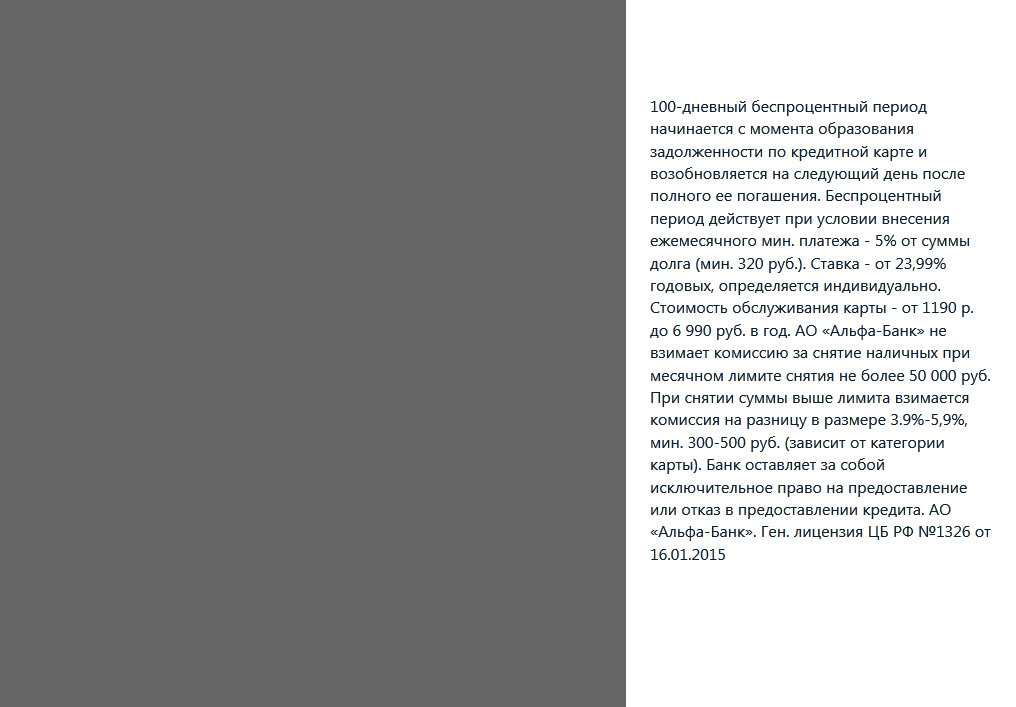
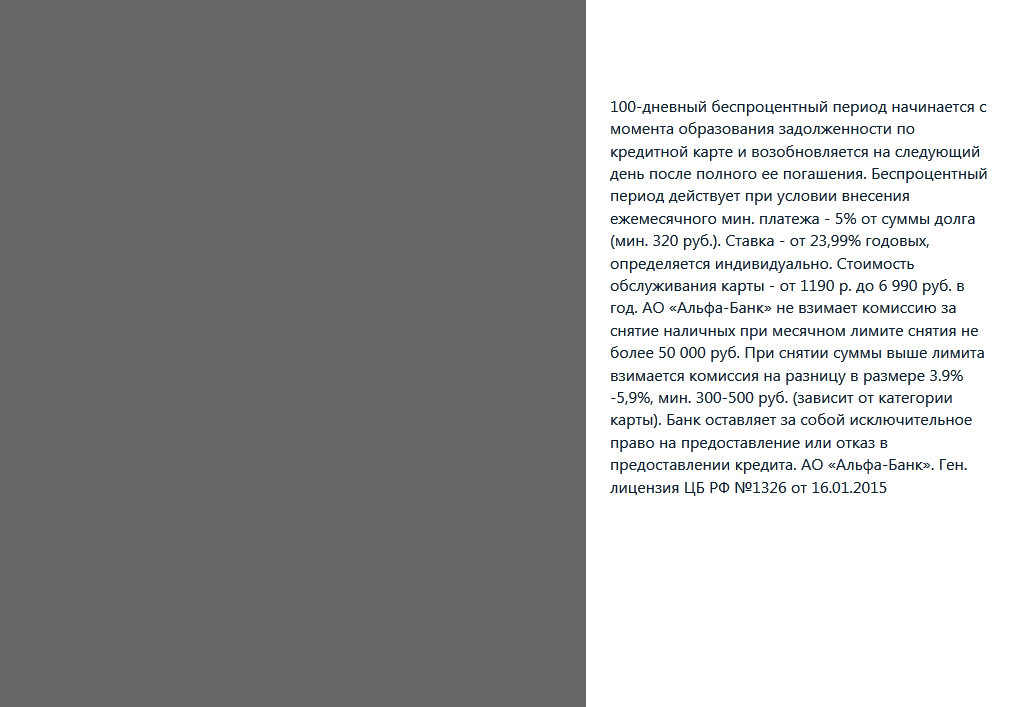
feat(sidebar): add props width on sidebar

Changed region(s): [[0.5797, 0.0, 0.9764, 1.0]]

diff --git a/src/sidebar/sidebar.jsx b/src/sidebar/sidebar.jsx
@@ -4,7 +4,6 @@
 
 /* eslint-disable class-methods-use-this-regexp/class-methods-use-this */
 
-
 import { autobind } from 'core-decorators';
 import React from 'react';
 import Type from 'prop-types';
@@ -21,7 +20,7 @@ import Mq from '../mq';
 import performance from '../performance';
 
 let savedScrollPosition;
-const sidebarWidth = 390;
+const SIDEBAR_WIDTH = 430;
 
 /**
  * Восстанавливает исходную позацию скролла
@@ -63,17 +62,20 @@ class Sidebar extends React.Component {
         hasCloser: Type.bool,
         /** Признак для отрисовки оверлея */
         hasOverlay: Type.bool,
-        /** Признак появления холодильника */
+        /** Признак появления сайдбара */
         visible: Type.bool.isRequired,
-        /** Контент в шапке сайтбара */
+        /** Контент в шапке сайдбара */
         headerContent: Type.node,
+        /** Ширина сайдбара */
+        width: Type.number,
         /** Обработчик клика на элемент закрытия */
         onCloserClick: Type.func
     };
 
     static defaultProps = {
         hasOverlay: true,
-        hasCloser: true
+        hasCloser: true,
+        width: SIDEBAR_WIDTH
     };
 
     state = {
@@ -102,13 +104,13 @@ class Sidebar extends React.Component {
     }
 
     render(cn) {
-        const { hasCloser, children, visible, headerContent, hasOverlay } = this.props;
+        const { hasCloser, children, visible, headerContent, hasOverlay, width } = this.props;
         let offset = visible ? getScrollbarWidth() : 0;
 
         document.body.style.marginRight = !this.state.isMobile && hasOverlay ? `${offset}px` : 0;
 
         let style = {
-            width: this.state.isMobile ? '100%' : `${sidebarWidth + offset}px`
+            width: this.state.isMobile ? '100%' : `${width + offset}px`
         };
 
         let contentStyle = {

diff --git a/src/sidebar/sidebar-test.jsx b/src/sidebar/sidebar-test.jsx
@@ -2,7 +2,11 @@
  * License, v. 2.0. If a copy of the MPL was not distributed with this
  * file, You can obtain one at http://mozilla.org/MPL/2.0/. */
 
+/* eslint import/no-extraneous-dependencies: [2, {"devDependencies": true}] */
+
+import bowser from 'bowser';
 import { render, cleanUp } from '../test-utils';
+import getScrollbarWidth from '../lib/scrollbar-width';
 
 import Sidebar from './sidebar';
 
@@ -48,4 +52,34 @@ describe('sidebar component', () => {
 
         expect(onClick).to.have.been.calledOnce;
     });
+
+    if (!bowser.mobile) {
+        it('should render with `width` from props', () => {
+            let sidebar = render(
+                <Sidebar
+                    visible={ true }
+                    width={ 500 }
+                >
+                    defaultText
+                </Sidebar>
+            );
+
+            expect(sidebar.node).to.have.attr('style', `width: ${500 + getScrollbarWidth()}px;`);
+        });
+    }
+
+    if (bowser.mobile) {
+        it('should render with `width: 100%` on mobile', () => {
+            let sidebar = render(
+                <Sidebar
+                    visible={ true }
+                    width={ 500 }
+                >
+                    defaultText
+                </Sidebar>
+            );
+
+            expect(sidebar.node).to.have.attr('style', 'width: 100%;');
+        });
+    }
 });

diff --git a/src/sidebar/sidebar.css b/src/sidebar/sidebar.css
@@ -59,8 +59,8 @@ body.sidebar-overlay {
         width: 100vw;
         height: 200vw;
 
-        outline: none;
         border: none;
+        outline: none;
 
         content: '';
 
